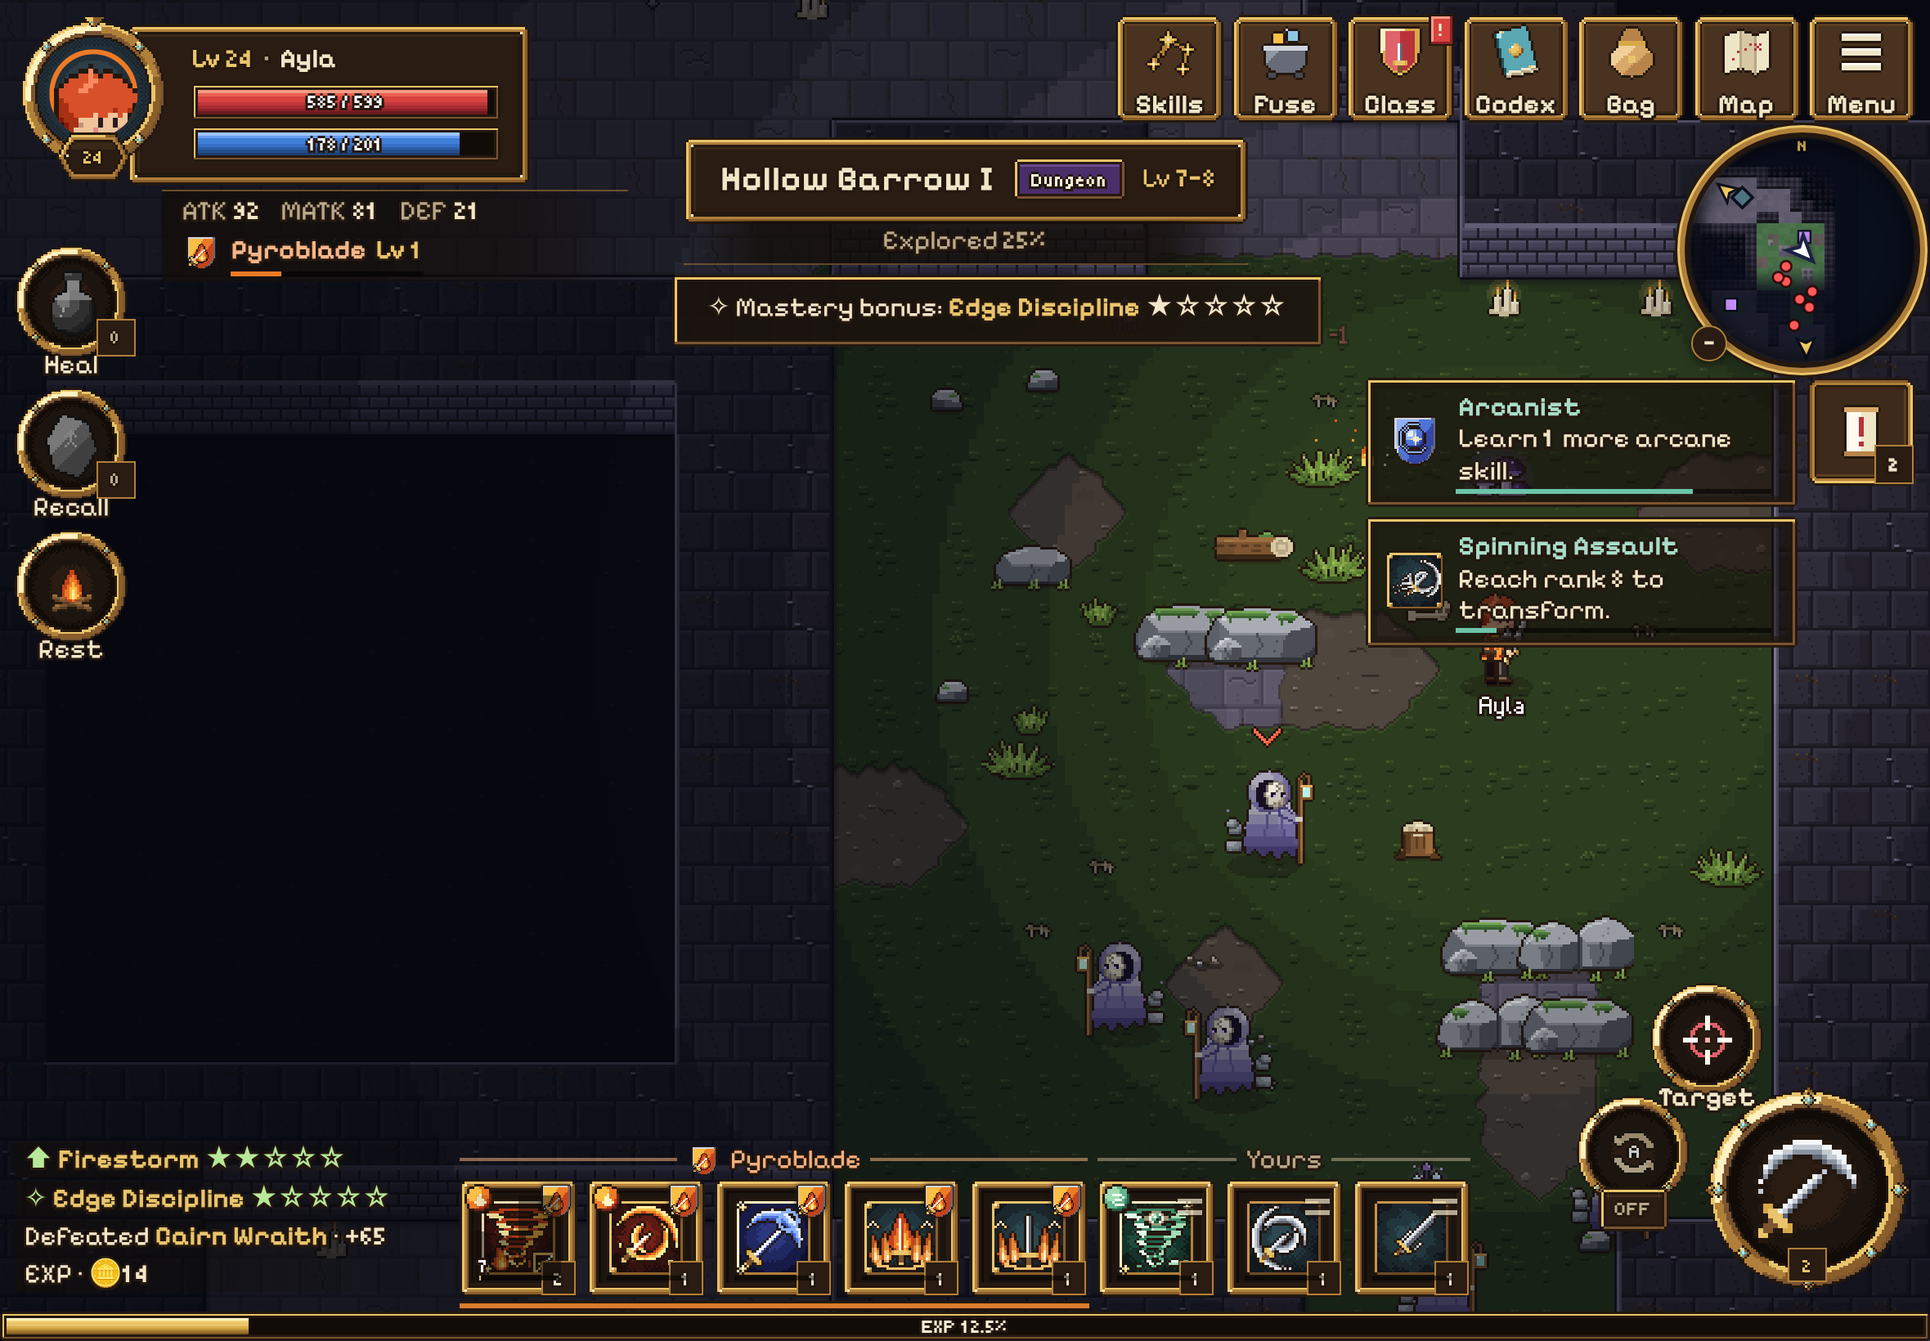
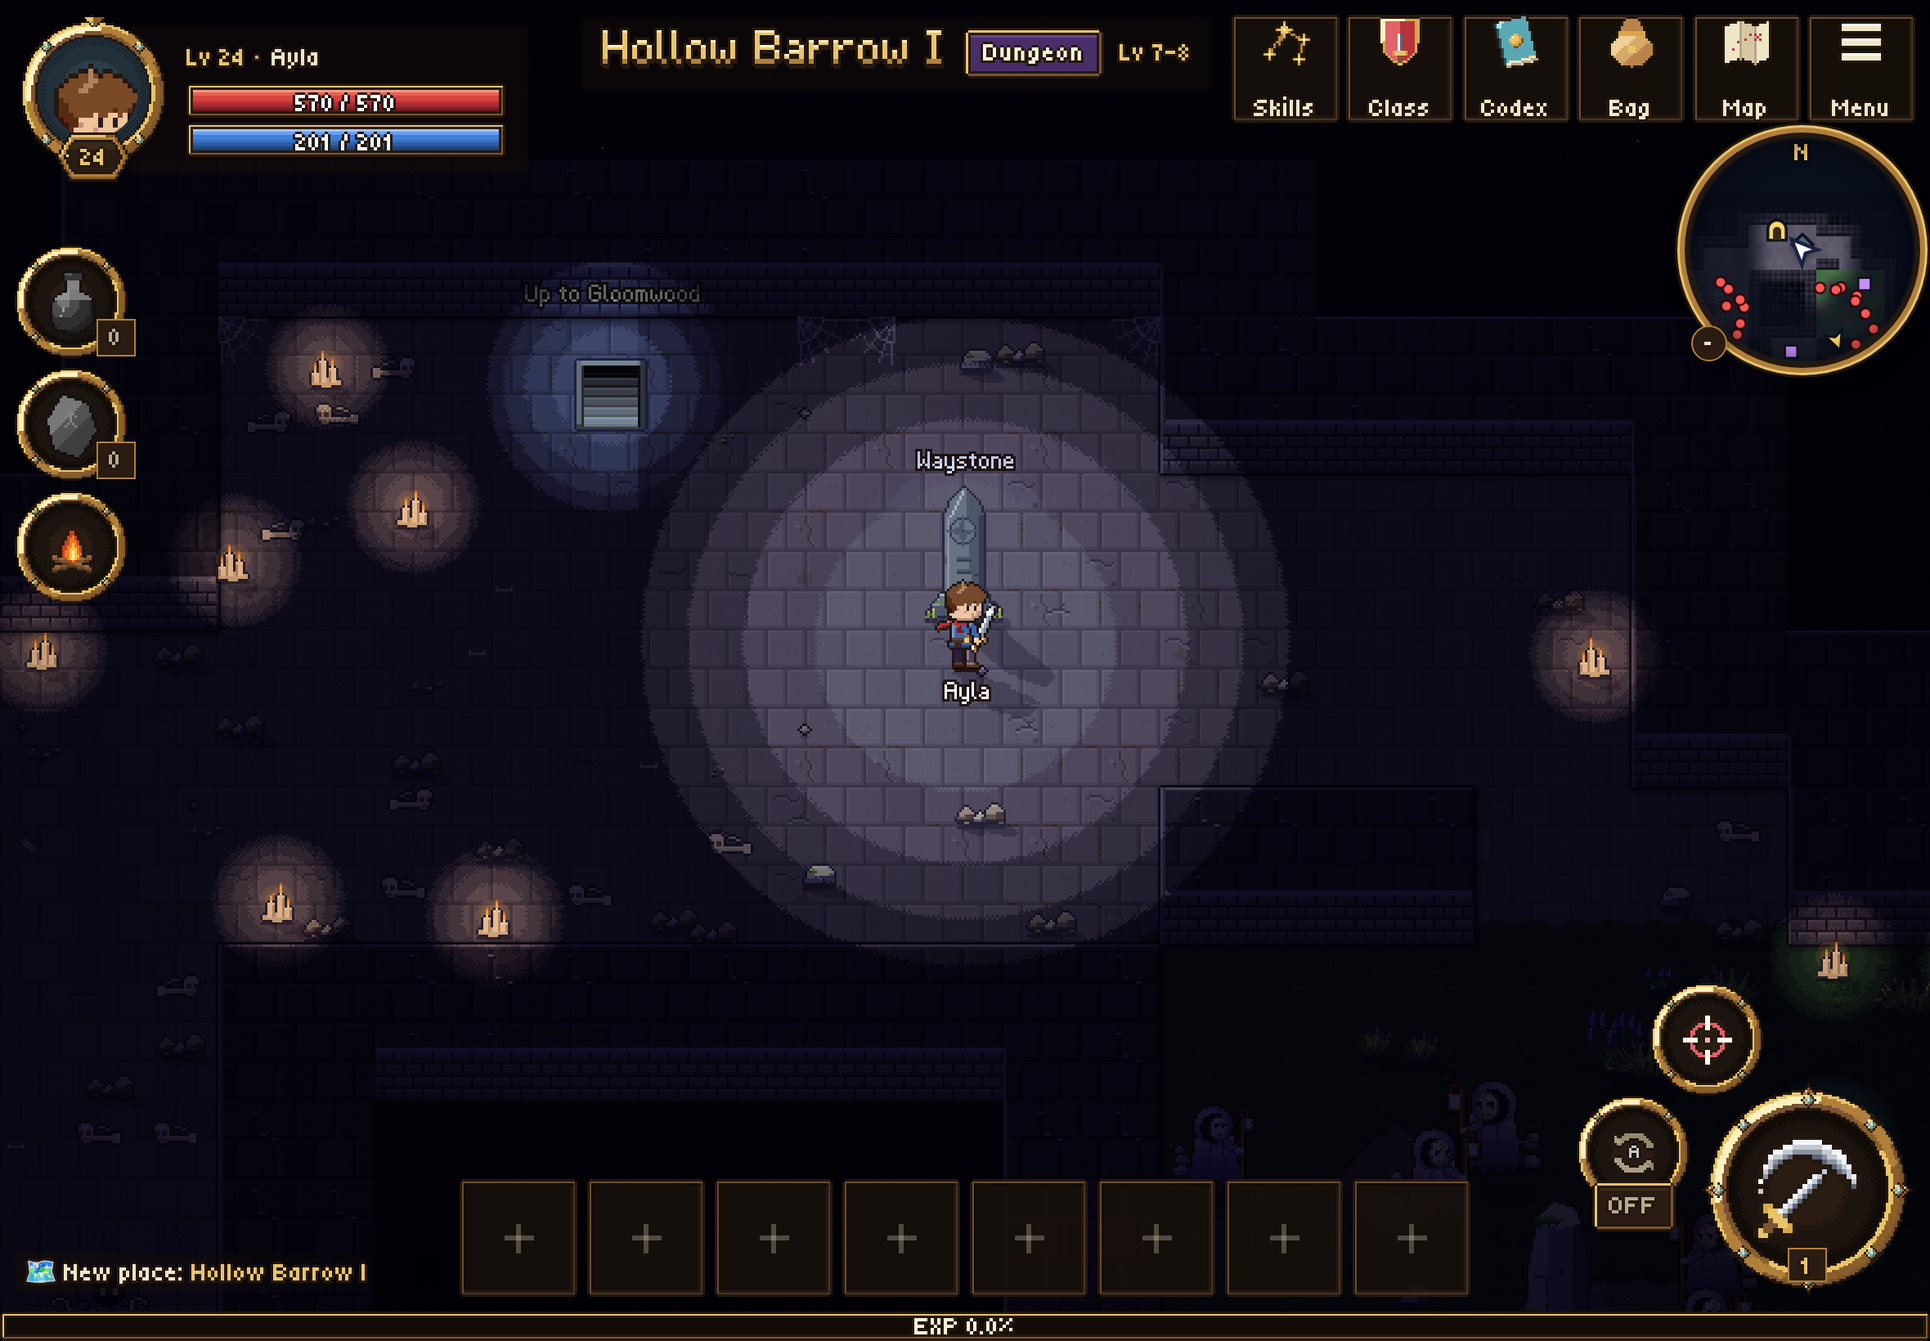
WIP v4 Phase 1: art and maps lane (cast shadows, prop size tiers, clearings, layered forest edges, rule dressing, palette ramps, HUD frame art, Bare Hands look, monster variation)
Claude-Session: https://claude.ai/code/session_01K6fmqA9D6PQ91Pd1nx6M6K

diff --git a/src/ui/hud.ts b/src/ui/hud.ts
@@ -164,6 +164,8 @@ export class Hud {
   private t = { stats: 0, badges: 0, zone: 0, pz: 0, slots: 0 };
   private pursuits: PursuitView[] = [];
   private pzOpen: boolean | null = null;
+  /** The open tracker has room for at least one row on this screen. */
+  private pzRoom = true;
   /** Slot presses in progress, one per finger (two-thumb play: each press casts or edits on its own). */
   private holds = new Map<number, { i: number; x: number; y: number; timer: number }>();
   private suppressClick = false;
@@ -316,9 +318,16 @@ export class Hud {
     $(this.navEl, '.np-open').addEventListener('click', () => this.actions.open('map', 'route'));
     $(this.navEl, '.np-stop').addEventListener('click', () => this.cancelNav());
     $(this.pzEl, '.pz-tab').addEventListener('click', () => {
+      // Open but no room for a row on this screen: the tap goes to the quest log.
+      if (this.pursuitsOpen() && !this.pzRoom) {
+        this.actions.open('codex', 'quests');
+        return;
+      }
       this.pzOpen = !this.pursuitsOpen();
       store(PZ_KEY, this.pzOpen ? '1' : '0');
       this.applyPursuits();
+      this.layout();
+      if (this.pzOpen && !this.pzRoom) this.actions.open('codex', 'quests');
     });
     this.pzList.addEventListener('click', (e) => {
       const row = (e.target as HTMLElement).closest<HTMLElement>('.pz-row');
@@ -767,30 +776,30 @@ export class Hud {
   /** The open tracker: at most PURSUIT_ROWS rows, only those above `limit`; "+N" (→ the quest log) for the rest. */
   private fitPursuits(limit: number): void {
     const open = this.pursuitsOpen();
-    if (this.pzEl.classList.contains('open') !== open) {
-      this.pzEl.classList.toggle('open', open);
-      $(this.pzEl, '.pz-tab').setAttribute('aria-expanded', String(open));
-    }
+    const tab = $(this.pzEl, '.pz-tab');
+    this.pzEl.classList.toggle('open', open);
     const rows = $$<HTMLElement>(this.pzList, '.pz-row');
     rows.forEach((r) => r.classList.remove('cut'));
     const more = $(this.pzEl, '.pz-more');
     let shown = rows.length;
     if (rows.length && open) {
-      const fit = rowsThatFit(
-        rows.map((r) => {
-          const b = r.getBoundingClientRect();
-          return { top: b.top, bottom: b.bottom };
-        }),
-        limit,
-      );
-      shown = Math.min(PURSUIT_ROWS, fit);
+      // Only whole rows above the limit (the first too: with no room at all the tracker stays its one line).
+      shown = 0;
+      for (const r of rows) {
+        if (shown >= PURSUIT_ROWS || r.getBoundingClientRect().bottom > limit) break;
+        shown++;
+      }
       rows.forEach((r, i) => r.classList.toggle('cut', i >= shown));
     }
-    const rest = rows.length - shown;
+    this.pzRoom = !open || shown > 0;
+    // No room for a single row: it reads as collapsed (its one line shows); a tap leads to the quest log instead.
+    if (open && shown === 0) this.pzEl.classList.remove('open');
+    tab.setAttribute('aria-expanded', String(open && shown > 0));
+    const rest = open && shown > 0 ? rows.length - shown : 0;
     more.classList.toggle('hidden', rest <= 0);
     more.textContent = rest > 0 ? `+${rest}` : '';
-    // No room for "+N" under the tab (a short portrait band): leave it out — every row and the tab still lead on.
-    if (rest > 0 && more.getBoundingClientRect().bottom > limit) more.classList.add('hidden');
+    // No room for "+N" under the rows (a short band): leave it out — every row and the tab still lead on.
+    if (rest > 0 && more.getBoundingClientRect().bottom - 10 * this.scale.px > limit) more.classList.add('hidden');
   }
 
   // ================================================================ vitals, stats, portrait, badges (≤ 10 Hz)

diff --git a/src/ui/styles/hud.css b/src/ui/styles/hud.css
@@ -2369,6 +2369,12 @@
   background: linear-gradient(90deg, rgba(18, 12, 10, 0), rgba(18, 12, 10, 0.6) calc(10 * var(--px))) center / 100% calc(18 * var(--px)) no-repeat;
 }
 
+/* Portrait phones: the line stays in the right-hand column under the minimap (the middle of the top band — where a
+   north-border portal shows — stays free for taps). */
+:where(.hud-port) .hud-layer .pz-tab {
+  max-width: calc(150 * var(--px));
+}
+
 .pz-tab .pz-ico {
   flex: none;
   display: grid;

diff --git a/docs/ART-DIRECTION.md b/docs/ART-DIRECTION.md
@@ -1,4 +1,4 @@
-# Omnipath — Art Direction v3 ("Lush Pixel")
+# Omnipath — Art Direction v4 ("Lush Pixel", composed)
 
 The owner supplied a reference screenshot of a mobile pixel-art RPG (kept outside the repo: it is another game's art). It is a
 **direction**, not a template: we match its *qualities* (dense, outlined pixel art; earthy palette; ornate framed HUD;
@@ -8,8 +8,9 @@ Never trace its sprites, icons or frames, never reuse its names, and never place
 ## 1. What the reference does well (the qualities we want)
 1. **True pixel art**: hard-edged pixels, 1 px dark outlines on every sprite, 3–5 tone ramps per material, light from
    the top-left, no anti-aliased vector blobs, no soft gradients on sprites.
-2. **Density**: the ground is *dressed* — flower clumps, mushrooms, tall grass, stones, stumps, fallen logs, crates,
-   banners, fences lining roads. Little bare ground away from the path; roads read as roads.
+2. **Composition, not density**: big things tower (trees three to four heroes tall), props stack into groups and
+   overlap, roads are lined in rhythm, and the fighting ground is kept clean so a dozen monsters read at once.
+   Dressing follows rules (§3d); there is no density target — an even sprinkle is what reads as generated.
 3. **Soft terrain borders**: grass meets dirt along an irregular, outlined edge (autotiling), never a staircase of
    squares.
 4. **Readable characters**: chibi proportions (~2.5 heads), weapon silhouettes, name tags with outline, walk/attack
@@ -19,20 +20,34 @@ Never trace its sprites, icons or frames, never reuse its names, and never place
 6. **Framed HUD**: every widget sits in a bevelled bronze/wood frame; pixel font; icons are painted pixel art (not
    emoji).
 
-## 2. Palette (anchors — derive ramps from these)
-| material | dark → light |
+## 2. Palette (v4 — SPEC-v4 §11.2 H; `RAMPS` in `src/game/art/pixel.ts`)
+Every ramp is **hue-shifted**: shadows lean cool and violet, lights lean warm and yellow. Six steps, shared darks.
+Never shade toward grey or black, never pillow-shade.
+
+| material | shadow → highlight |
 |---|---|
-| outline (never pure black) | `#24180f` |
-| grass | `#3f5a26` `#56772f` `#6c8f3a` `#86a64a` `#a2bd62` |
-| dirt road | `#7a6446` `#96805c` `#ad9a74` `#c2b18a` |
-| foliage | `#2b4a22` `#3d6630` `#548540` `#74a655` |
-| bark / wood | `#3d2817` `#5c3d22` `#7d5530` `#9c6d3e` |
-| stone | `#4a4d55` `#666a73` `#878b93` `#a9adb3` |
-| water | `#25507a` `#2f6fa3` `#4a92c4` `#8cc6e6` (foam `#d8eef6`) |
+| grass | `#1f3b33` `#2f5435` `#47702f` `#6a8f36` `#93ab45` `#c4c765` |
+| foliage | `#17302f` `#23483a` `#32663a` `#4f8a3c` `#86ad45` `#c9cf6a` |
+| dirt / path | `#4a3340` `#6e4f48` `#94714f` `#b8955f` `#d9bd7c` `#efdc9e` |
+| stone | `#2b2a40` `#454660` `#69708a` `#959aa6` `#c2c2b4` `#e8e2c6` |
+| wood | `#2e1a26` `#4d2a2a` `#74432d` `#9c6534` `#c48e48` `#e3bb6c` |
+| water | `#1b2f5a` `#23508a` `#2f7fa8` `#4fb0b8` `#9adcc8` `#e4f6e0` |
+| roofs | terracotta `#4a1f33`…`#e89a52` · slate `#232a4a`…`#7a9cab` · thatch `#5a4326`…`#d9bd5e` · verdigris `#173b40`…`#74b890` |
 | flower accents | crimson `#b8323a`, rose `#e0788a`, cream `#efe6c8`, violet `#8a6cc0` |
 | UI frame | `#24180f` outline, `#4a3220` wood, `#7a5430` bevel, bronze `#b0803a`, gold highlight `#e9c46a`, panel fill `rgba(28,20,14,.92)` |
 | UI text | parchment `#f2e6c9`, muted `#b9a98a`, HP `#d8433f`, SP `#3f7fd8`, EXP `#e9c46a` |
-Biome palettes (frost, basalt, storm, dusk, crypt, cave) keep the same *value structure* with their own hue.
+
+- **Value plan.** Ground is dark-mid (grass base `#476630`, dark wood floor `#30503a`), paths and plazas are light
+  (path base `#bfa272`), tree masses and cliffs are dark, and actors and accents are the brightest, most saturated
+  pixels on screen. Tested per biome (`tests/render-ground.test.ts`): path at least 25% lighter than the ground, tree
+  masses at least 20% darker.
+- **Outlines.** `#24180f` (warm black) only on characters and monsters. World props, buildings and dressing are
+  outlined in the darkest step of their own ramp (trees: foliage `#17302f`; rocks and everything else: the shared dark
+  `#2b2a40`, `WORLD_OUTLINE`), so the world sits back and the actors pop.
+- **Shadows** are the violet `#3a3560`, multiplied (§3a). Never black alpha, anywhere.
+- **Dither** only in light falloff and water depth bands. Ground tone variation is hard-edged two-tone 4 px clusters
+  (`render/ground.ts toneWash`): no per-pixel noise, no soft blobs.
+- Biome palettes (frost, basalt, storm, dusk, crypt, cave) keep the same value steps with their own hue.
 
 ## 3. World art rules
 - **Grid**: 32×32 px tiles authored pixel-by-pixel (use `fillRect` on integer coordinates only; no arcs/ellipses on
@@ -42,20 +57,78 @@ Biome palettes (frost, basalt, storm, dusk, crypt, cave) keep the same *value st
 - **Autotile transitions**: soft terrains (path, sand, dark grass, snow, ember…) blend into their neighbours with an
   outlined, irregular edge using 4-bit corner masks (16 transition pieces per pair family). Water gets a foam/shore
   edge; walls/cliffs get a 2-tone top + darker face + outline on the walkable side.
-- **Dressing** (non-blocking, purely visual, deterministic per map seed): flower clumps (3–7 blooms), mushroom groups,
-  tall-grass tufts, small stones, stumps, fallen logs, crates/barrels and banners near structures/portals/camps,
-  rustic fences lining roads in town/meadow/camp areas, lanterns in towns. Target ≈ 1 dressing per 6–10 walkable
-  off-path tiles in fields, more along road edges, less in dungeons (bones, rubble, candles, cobwebs instead).
-- **Props** (trees, rocks, ruins…): bigger, layered, outlined; trees have trunk + 2–3 canopy clusters with highlight.
+- Light is always from the **top-left**. A sprite with a lit face is never mirrored (`PROP_NO_FLIP`, `DRESSING_LIT`).
+
+### 3a. Cast shadows (`render/shadows.ts`)
+- Everything that stands throws its **own silhouette down-right**: laid down at half height and sheared so its top
+  lands `0.6 ×` its height to the right, never more than 48 px (dusk and glade maps: `0.9`, one constant).
+- Colour `#3a3560`, **multiply**, 40% outdoors, 30% underground. A 1 px contact line under whatever touches the ground
+  is multiplied in a second time (35%).
+- Static casters (props, structures, standing dressing, objects, gather nodes) are baked **into the ground chunks** as
+  one flat layer: no sprite, no draw call, and overlapping shadows never add up. Moving actors (player, monsters,
+  NPCs) show the silhouette of the frame they are on, from one shared atlas (`cast_shadows`, baked lazily).
+- There is no ellipse blob under anything. The one exception: flying monsters keep a small offset ellipse.
+- Whole pixels only: the shear is rounded per row; nothing is scaled or rotated at draw time.
+
+### 3b. Size tiers (`art/world.ts propKey`, `PROP_TIER_LOOKS`)
+The hero is 40 px tall. Every screen must show something three heroes tall.
+
+| Tier | Height | Trees | Rocks | Other |
+|---|---|---|---|---|
+| S | 8 – 36 px | sapling, bush | small stones (`rock_S`) | tufts, flowers, mushrooms (dressing) |
+| M | 32 – 64 px | young tree (`tree`, `tree~1`, `tree~2`) | `rock`, `boulder` | stump, crates, signpost |
+| L | 64 – 112 px | grown tree (`tree_L`: round oak, tall elm, forked) | boulder group two tiles wide (`rock_L`), standing stone (`menhir_L`, 88 px) | fallen giant log (`log_L`) |
+| XL | 104 – 160 px | hero tree (`tree_XL`, 3 – 4 heroes) | outcrop three tiles wide (`rock_XL`) | landmark stamps (Phase 2) |
+
+- **Three drawn looks per tier** of the tree and rock families: different silhouettes, never a recolour or a mirror.
+  The compiler gives neighbours within 6 tiles different looks wherever three looks can cover them.
+- Trees and rocks are placed as **groups of big + medium + small** (three pieces), never a lone medium, and never an
+  even sprinkle: the compiler rolls one group per lattice cell against a low-frequency density mask.
+- **Tallness**: outdoors, 95% of walkable tiles have an L or XL prop or a structure within 12 tiles (the compiler adds
+  a group where the rolls left a gap; tested).
+- A big crown hangs low: about a third of the trunk shows. A bare pole under a ball reads as a lollipop.
+- **Walking behind**: L and XL props and buildings are single y-sorted sprites; while the hero stands behind one it
+  fades to 40% in a few alpha steps (`render/stage.ts fadeTall`). Only the trunk tile blocks.
+
+### 3c. Tree lines (`core/world/compile.ts`, `'T'`)
+`T` is not "a tree on every tile". Collision is unchanged (every tile of the line blocks); what is drawn, from the
+open side inward:
+1. **undergrowth**: bushes, saplings, mushrooms on the front tiles, staggered;
+2. **front row**: full trees of three looks and three heights (M / L / XL), offset by up to half a tile. Where open
+   ground lies to the north the tree stands a row back and stays low, so its crown does not swallow the clearing;
+3. **second row**: trees tinted one step darker and cooler;
+4. **interior**: trunkless canopy masses (`<kind>_mass`), darker each row, on a floor shaded with the shadow violet.
+About one front cell in six is a **notch** — a fallen giant log or a low bay — so no border runs unbroken.
+A tree line costs about a third of the sprites of one tree per tile.
+
+### 3d. Dressing rules (`render/dressing.ts planZones`, `planScatter`) — there is no density target
+- Every walkable cell is **calm, medium or dense**: about 60 / 30 / 10 by area. Dense within a tile of a border (tree
+  line, cliff, water), a structure or a big prop, where the map's low-frequency mask allows; calm on paths (+1 tile),
+  plazas, portal arrivals (+2) and wherever the mask says so.
+- Anchors keep a **Poisson spacing** of 5 / 2.5 / 1.2 tiles; each anchor grows the cluster its surroundings call for.
+- **Clearings**: every spawn entry's circle is a clearing — no scattered blockers, at most a fifth of the medium
+  dressing — with a dressed rim two tiles wide. Monsters read instantly on clean ground.
+- **Ecology**: mushrooms, stumps and logs only under trees · reeds only at water · flowers as a drift of one colour on
+  the sunlit side of a wood, or a small pair in medium ground · tall grass at cliff feet and fences · a lone low tuft,
+  stone or pebbles in the open · bones and rubble only in dungeons and ash.
+- **Road lining**: fences in runs of 2 – 5 with gaps; lanterns along the roads about every 6 tiles and where a road
+  meets a plaza — never a ring round a plaza. Plaza goods stand in a few stacks of two or three, not a dotted rim.
 
 ## 4. Characters & monsters
 - Player: 32×40 canvas, chibi (~2.5 heads), 1 px outline, weapon silhouette readable. The outfit CHANGES with the worn
   class (docs/CLIENT-v3.md §Class looks): palette, headgear, armour type, cape (Tier II+), aura (Tier III). Frames:
   `player_<w>` (= idle 0, kept for compatibility), `player_<w>_idle_1`, `player_<w>_walk_0..3`, `player_<w>_atk_0..1`.
-  Facing left/right by flipX.
+  Facing left/right by flipX. Weapons `<w>`: `sword`, `dagger`, `staff`, and **`fists`** (Bare Hands, v4): bare arms,
+  an ochre tunic, a red headband and cloth-wrapped fists; it idles and walks in a **guard** (both fists up) and its
+  attack is wind-up → straight punch with a knuckle flash. Every class outfit also draws over the fists frames
+  (`player_fists__<classId>`).
 - NPCs: 32×40, frames `npc_<look>` (= idle 0) and `npc_<look>_1`.
 - Monsters: same outline rule, personality (weapons, accessories, faces), frames `mon_<id>` (= frame 0) and
   `mon_<id>_1` (idle/walk alternate). Sizes as before (S ~32, M ~40, L elites ~64, wardens ~96).
+- **A pack is never N copies of one sprite** (v4): common monsters wear one of four instance looks dealt in a fixed
+  shuffled cycle (`art/monsters.ts MONSTER_INSTANCE_LOOKS`): as drawn, 8% smaller and cooler, 8% bigger and warmer,
+  duller. Sizes are painted natively in whole pixels with the palette nudge baked in (`mon_<id>~1..3`); never a sprite
+  scale or a run-time tint. Elites and wardens keep their one look.
 - Floating combat text: pixel font, 1 px dark outline; crits larger + gold; target chevron `ui_chevron` above the
   current target and above aggressive monsters that are chasing the player.
 
@@ -77,10 +150,15 @@ Biome palettes (frost, basalt, storm, dusk, crypt, cave) keep the same *value st
   (cycle nearest enemies), Potion (count).
 - **Very bottom**: full-width thin EXP bar with percentage text; minimap moves into the Map button long-press /
   a collapsible corner widget under the top-right row.
-- **Fonts**: a pixel font (OFL, bundled via npm, e.g. Pixelify Sans) for all HUD/panel text; body text in panels may
-  use the pixel font at ≥ 14 px for readability.
-- **Frames**: procedural 9-slice frames (wood + bronze bevel + outline) generated at boot as data URLs and used via CSS
-  `border-image`; distinct styles for panel, plate, slot, round button, tracker card.
+- **Type (v4): two faces, three sizes.** Display — zone names and headers — is the game's own drawn bitmap face (the
+  in-world glyphs at 2×, a 3-step ramp, dark outline), painted to an image by `render/fonts.ts displayLabel()`.
+  Body — numbers and text — is Tiny5, a plain even-stroke pixel face, through `var(--ui-font-body)` at
+  `--ui-text-s|m|l` (8 / 16 / 24 px, its pixel-exact sizes). Pixelify Sans is only the fallback stack now.
+- **Frames (v4): three weights**, procedural 9-slices generated at boot as data URLs and used via CSS `border-image`.
+  **Heavy** (`--ui-frame-heavy`; portrait, attack button, the round pieces) carries the gold bevel. **Light**
+  (`--ui-frame-light`, `--ui-frame-light-on` when active) is a quiet 1 px dark-bronze line for slots and rows.
+  **None** (`--ui-strip`) is a dark strip with a stepped edge for tracker and log text. Gold only on things you can tap.
+  The older panel / plate / slot / card / button frames remain for panels.
 - Panels keep their structure but adopt the frames, palette, font and pixel icons.
 
 ## 6. Icons
